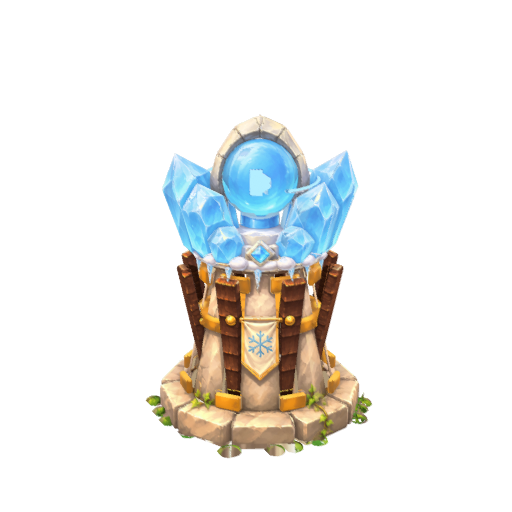
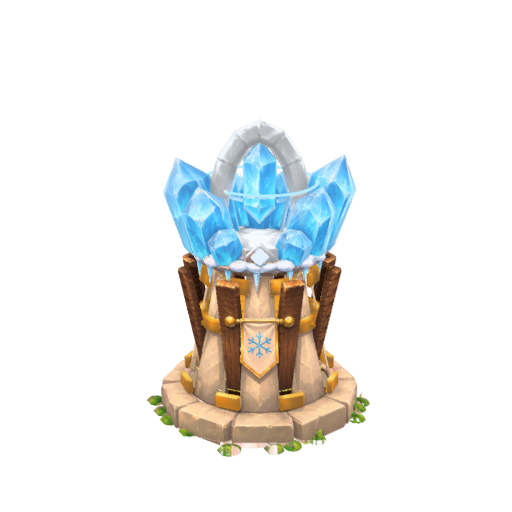
Frost Crystal level 3: silver arch kept silver, faceted ice diamond with its orbit ring, fuller crystal crown
- the silver parts (ring, arch, horns) bake into their own sheet; scripts/silver_tone.py keeps them a cool
  grey-white with a soft highlight after the repaint (the painter had turned the arch beige)
- the pale sphere that read like a map is a faceted ice diamond (octahedron) with a small glowing core, in the
  ring with its thin orbit ring, as painted
- three more tall crystals at the back so the crown fans as wide as the painting's
- outline 82.4 %, colour 15.0, detail 0.82; film l3g (with the lock): Frost passes every tower rule (levels 1-2
  75.6 %, 2-3 57.4 %, stands out 42.0, bright yellow 3.0 %)

Changed region(s): [[0.2812, 0.2188, 0.75, 0.9062]]

diff --git a/art/blender/tower_frost_detail.py b/art/blender/tower_frost_detail.py
@@ -128,6 +128,10 @@ elif level == 2:
         shard(f"Shard{k}", (math.cos(a) * rr, math.sin(a) * rr, top), P["shard_h"] * rnd.uniform(0.6, 0.9), P["shard_r"] * 0.9,
               (math.degrees(math.sin(a)) * -0.35, math.degrees(math.cos(a)) * 0.35))
 else:
+    # (2026-11-25: the silver parts of level 3 in their own sheet, which scripts/silver_tone.py keeps a cool grey-white
+    # with a soft highlight after the repaint; the painter had turned the arch beige)
+    SIL = K.atlas("silver")
+    SIL.__enter__()
     K.lathe("Ring", [(P["crown_r"] - 0.25, top - 0.05), (P["crown_r"], top), (P["crown_r"], top + 0.45), (P["crown_r"] - 0.25, top + 0.5)], SILVER, key=None, verts=32)
     gem("GemFront", K.at(rad(FRONT), P["crown_r"] + 0.1, top + 0.25), 0.5, FRONT)
     # the arch over the top and the curled horns
@@ -144,11 +148,14 @@ else:
         base = side * (s * P["crown_r"] * 0.95) + Vector((0, 0, top + 0.3))
         horn = [tuple(base + side * (s * 0.35 * math.sin(t)) + Vector((0, 0, 0.9 * t))) for t in (0, 0.5, 1.0, 1.4)]
         K.chain(f"Horn{s}", horn, [0.18, 0.15, 0.12, 0.08], SILVER, seg=8)
+    SIL.__exit__()
     # (2026-11-25: crystals fanned round the arch as painted: tall ones at the sides rising above the arch, leaning
     # out; middling ones toward the back; small ones low at the front either side of the orb)
     for k, (da, hk, rk, lean) in enumerate(((90, 1.75, 1.2, 16), (-90, 1.75, 1.2, 16), (62, 1.3, 1.05, 12), (-62, 1.3, 1.05, 12),
                                             (125, 1.05, 1.0, 10), (-125, 1.05, 1.0, 10), (180, 0.95, 1.0, 6),
-                                            (36, 0.6, 0.8, 22), (-36, 0.6, 0.8, 22))):
+                                            (36, 0.6, 0.8, 22), (-36, 0.6, 0.8, 22),
+                                            # (2026-11-25: three more tall ones at the back so the crown fans as wide as painted)
+                                            (150, 1.5, 1.1, 18), (-150, 1.5, 1.1, 18), (108, 1.6, 1.15, 20))):
         a = rad(FRONT + da)
         rr = P["crown_r"] * 0.9
         shard(f"Shard{k}", (math.cos(a) * rr, math.sin(a) * rr, top), P["shard_h"] * hk * rnd.uniform(0.95, 1.05), P["shard_r"] * rk,
@@ -157,9 +164,17 @@ else:
     # (2026-11-25: an all-Neon ball drew as a flat light-blue disc, like a mirror: the orb is a shaded pale ice sphere
     # with a small brighter core showing at its front, floating inside the arch)
     oz = top + 0.6 + P["crown_r"] * 1.0
-    K.ball("Orb", (0, 0, oz), P["orb_r"], (0.62, 0.86, 1.0), seg=20, key=None)
-    fw = Vector((math.cos(rad(FRONT)), math.sin(rad(FRONT)), 0))
-    S.glow_ball("OrbCore", tuple(Vector((0, 0, oz)) + fw * (P["orb_r"] * 0.62)), P["orb_r"] * 0.42, (0.85, 0.97, 1.0), seg=14)
+    # (2026-11-25: the pale sphere read like a map; as painted, a faceted ice diamond (an octahedron, taller than wide)
+    # floats inside the ring with a thin orbit ring round it)
+    bpy.ops.mesh.primitive_uv_sphere_add(segments=4, ring_count=2, radius=P["orb_r"] * 0.85, location=(0, 0, oz))
+    dia = bpy.context.active_object
+    dia.name = "Diamond"
+    dia.scale = (0.8, 0.8, 1.25)
+    dia.rotation_euler = (0, 0, rad(FRONT + 45))
+    bpy.ops.object.transform_apply(location=False, rotation=True, scale=True)
+    dia["htd_atlas"] = "body"
+    K.paint.paint(dia, None, (0.55, 0.85, 1.0))
+    S.glow_ball("DiamondCore", (0, 0, oz), P["orb_r"] * 0.3, (0.85, 0.97, 1.0), seg=10)
     ring = [(math.cos(2 * math.pi * k / 24) * P["orb_r"] * 1.5, math.sin(2 * math.pi * k / 24) * P["orb_r"] * 1.5 * 0.35, oz + math.sin(2 * math.pi * k / 24) * P["orb_r"] * 0.3) for k in range(25)]
     K.chain("OrbRing", ring, [0.05] * 25, (0.85, 0.97, 1.0), seg=6)
     for o in [o for o in bpy.context.scene.objects if o.name.startswith("OrbRing")]:

diff --git a/scripts/silver_tone.py b/scripts/silver_tone.py
@@ -1,0 +1,23 @@
+"""Silver kept silver after the repaint (coordinator 2026-11-25, Frost level 3's arch had turned beige): a painted
+silver sheet keeps its light and shade (value, softened) but takes a cool grey-white colour (a faint blue hue, low
+saturation), with its highlights lifted a little.
+  python scripts/silver_tone.py <painted silver sheet> [out]"""
+import sys
+
+import cv2
+import numpy as np
+
+src = sys.argv[1]
+out = sys.argv[2] if len(sys.argv) > 2 else src
+img = cv2.imread(src, cv2.IMREAD_UNCHANGED)
+sm = cv2.GaussianBlur(cv2.medianBlur(img[..., :3], 5), (0, 0), 1.5)
+hsv = cv2.cvtColor(sm, cv2.COLOR_BGR2HSV).astype(np.float32)
+hsv[..., 0] = 105                                   # (a faint cool blue)
+hsv[..., 1] = np.clip(hsv[..., 1] * 0.25, 8, 28)
+v = hsv[..., 2]
+hsv[..., 2] = np.clip(70 + v * 0.75 + np.clip(v - 170, 0, None) * 0.5, 0, 255)   # (grey-white, highlights lifted)
+rgb = cv2.cvtColor(hsv.astype(np.uint8), cv2.COLOR_HSV2BGR)
+if img.shape[2] == 4:
+    rgb = np.dstack([rgb, img[..., 3]])
+cv2.imwrite(out, rgb)
+print("SILVER toned", out)
